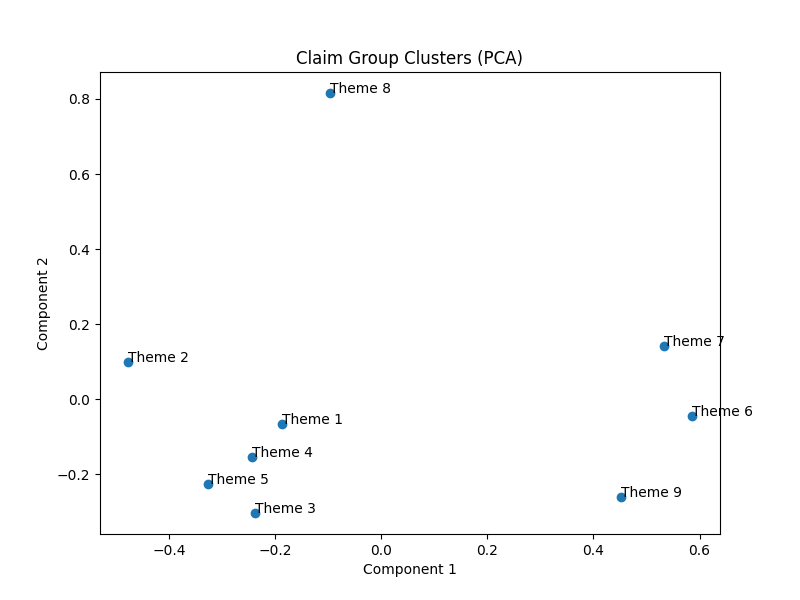
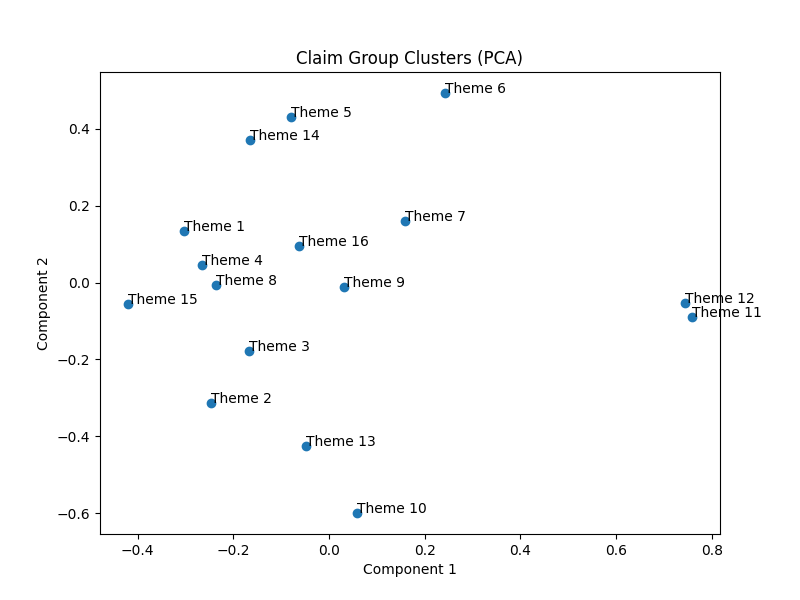
added 5 url sources output

diff --git a/data/outputs/digest.md b/data/outputs/digest.md
@@ -2,45 +2,102 @@
 
 ## Theme 1
 
-- **Claim:** AI-powered diagnostic systems can detect certain cancers with accuracy comparable to experienced radiologists.
-  - Source: article1.txt
+- **Claim:** AI can analyze medical images, patient data, and genomic information to identify diseases and conditions with greater precision than traditional methods.
+  - Source: Artificial intelligence (AI) in healthcare | Google Cloud
+
+- **Claim:** Artificial intelligence (AI) will increasingly be applied within the field of healthcare.
+  - Source: 
+            The potential for artificial intelligence in healthcare - PMC
+        
 
 ## Theme 2
 
-- **Claim:** Machine learning models can identify patterns that human clinicians often miss.
-  - Source: article1.txt
+- **Claim:** AI can automate routine tasks such as appointment scheduling, data entry, and documentation.
+  - Source: Artificial intelligence (AI) in healthcare | Google Cloud
 
 ## Theme 3
 
-- **Claim:** Hospitals are using AI systems to optimize staff scheduling
-  - Source: article2.txt
+- **Claim:** AI can reduce unnecessary tests and procedures, leading to cost savings.
+  - Source: Artificial intelligence (AI) in healthcare | Google Cloud
 
 ## Theme 4
 
-- **Claim:** AI systems can reduce patient wait times
-  - Source: article2.txt
+- **Claim:** AI can predict potential health risks and outcomes, enabling proactive interventions and early detection of diseases.
+  - Source: Artificial intelligence (AI) in healthcare | Google Cloud
+
+- **Claim:** The report identifies the ethical challenges and risks with the use of artificial intelligence of health, six consensus principles to ensure AI works to the public benefit of all countries.
+  - Source: 
+
+	Ethics and governance of artificial intelligence for health
+
+
 
 ## Theme 5
 
-- **Claim:** AI systems can predict hospital readmissions
-  - Source: article2.txt
+- **Claim:** Data-driven machine learning (ML) has emerged as a promising approach for building accurate and robust statistical models from medical data.
+  - Source: The future of digital health with federated learning | npj Digital Medicine
 
 ## Theme 6
 
-- **Claim:** Ethical guidelines are essential to AI applications
-  - Source: article2.txt
+- **Claim:** Existing medical data is not fully exploited by ML primarily because it sits in data silos and privacy concerns restrict access to this data.
+  - Source: The future of digital health with federated learning | npj Digital Medicine
 
 ## Theme 7
 
-- **Claim:** AI applications require fairness and privacy
-  - Source: article2.txt
+- **Claim:** FL still requires rigorous technical consideration to ensure that the algorithm is proceeding optimally without compromising safety or patient privacy.
+  - Source: The future of digital health with federated learning | npj Digital Medicine
 
 ## Theme 8
 
-- **Claim:** Patient data privacy remains a significant challenge
-  - Source: AI and Healthcare
+- **Claim:** New technologies that use artificial intelligence hold great promise to improve diagnosis, treatment, health research and drug development and to support governments carrying out public health functions, including surveillance and outbreak response.
+  - Source: 
+
+	Ethics and governance of artificial intelligence for health
+
+
 
 ## Theme 9
 
-- **Claim:** Integration of AI technologies introduces risks
-  - Source: AI and Healthcare
+- **Claim:** Data mining combines statistics and artificial intelligence to analyze large datasets.
+  - Source: Think Topics | IBM
+
+## Theme 10
+
+- **Claim:** Chatbots simulate human conversation using NLP and generative AI.
+  - Source: Think Topics | IBM
+
+## Theme 11
+
+- **Claim:** DDoS attacks flood websites with malicious traffic.
+  - Source: Think Topics | IBM
+
+## Theme 12
+
+- **Claim:** Phishing tricks users into divulging sensitive data.
+  - Source: Think Topics | IBM
+
+## Theme 13
+
+- **Claim:** Quantum computing uses quantum mechanics to solve complex problems.
+  - Source: Think Topics | IBM
+
+## Theme 14
+
+- **Claim:** Deep learning is increasingly being applied to radiomics, or the detection of clinically relevant features in imaging data beyond what can be perceived by the human eye.
+  - Source: 
+            The potential for artificial intelligence in healthcare - PMC
+        
+
+## Theme 15
+
+- **Claim:** AI can perform as well as or better than humans at key healthcare tasks, such as diagnosing disease.
+  - Source: 
+            The potential for artificial intelligence in healthcare - PMC
+        
+
+## Theme 16
+
+- **Claim:** Implementation factors will prevent large-scale automation of healthcare professional jobs for a considerable period.
+  - Source: 
+            The potential for artificial intelligence in healthcare - PMC
+        
